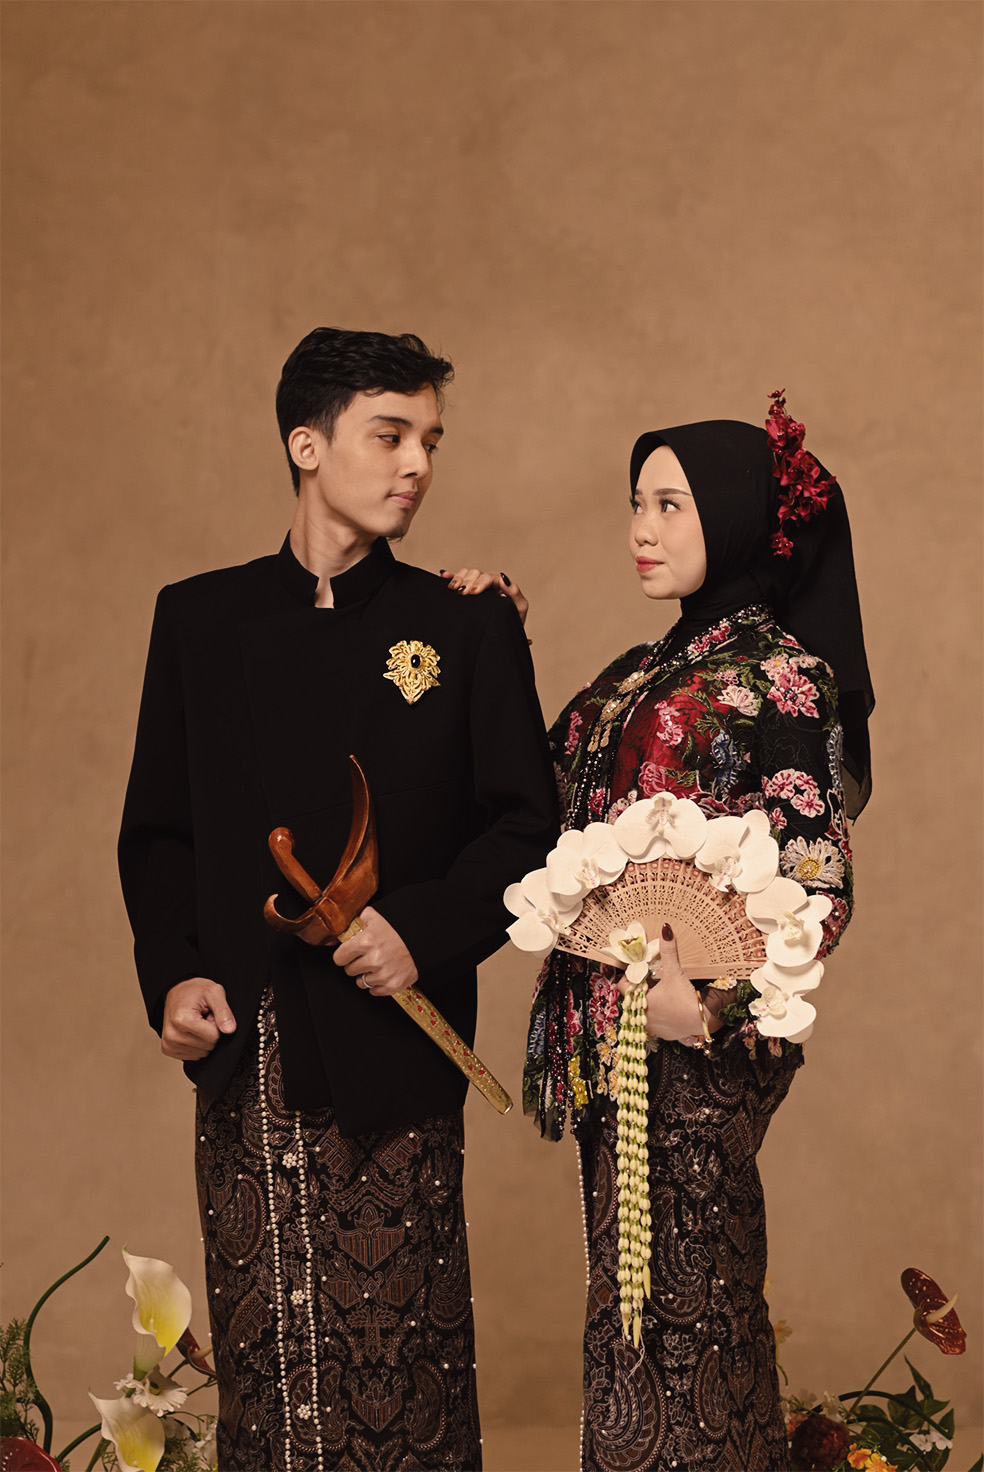
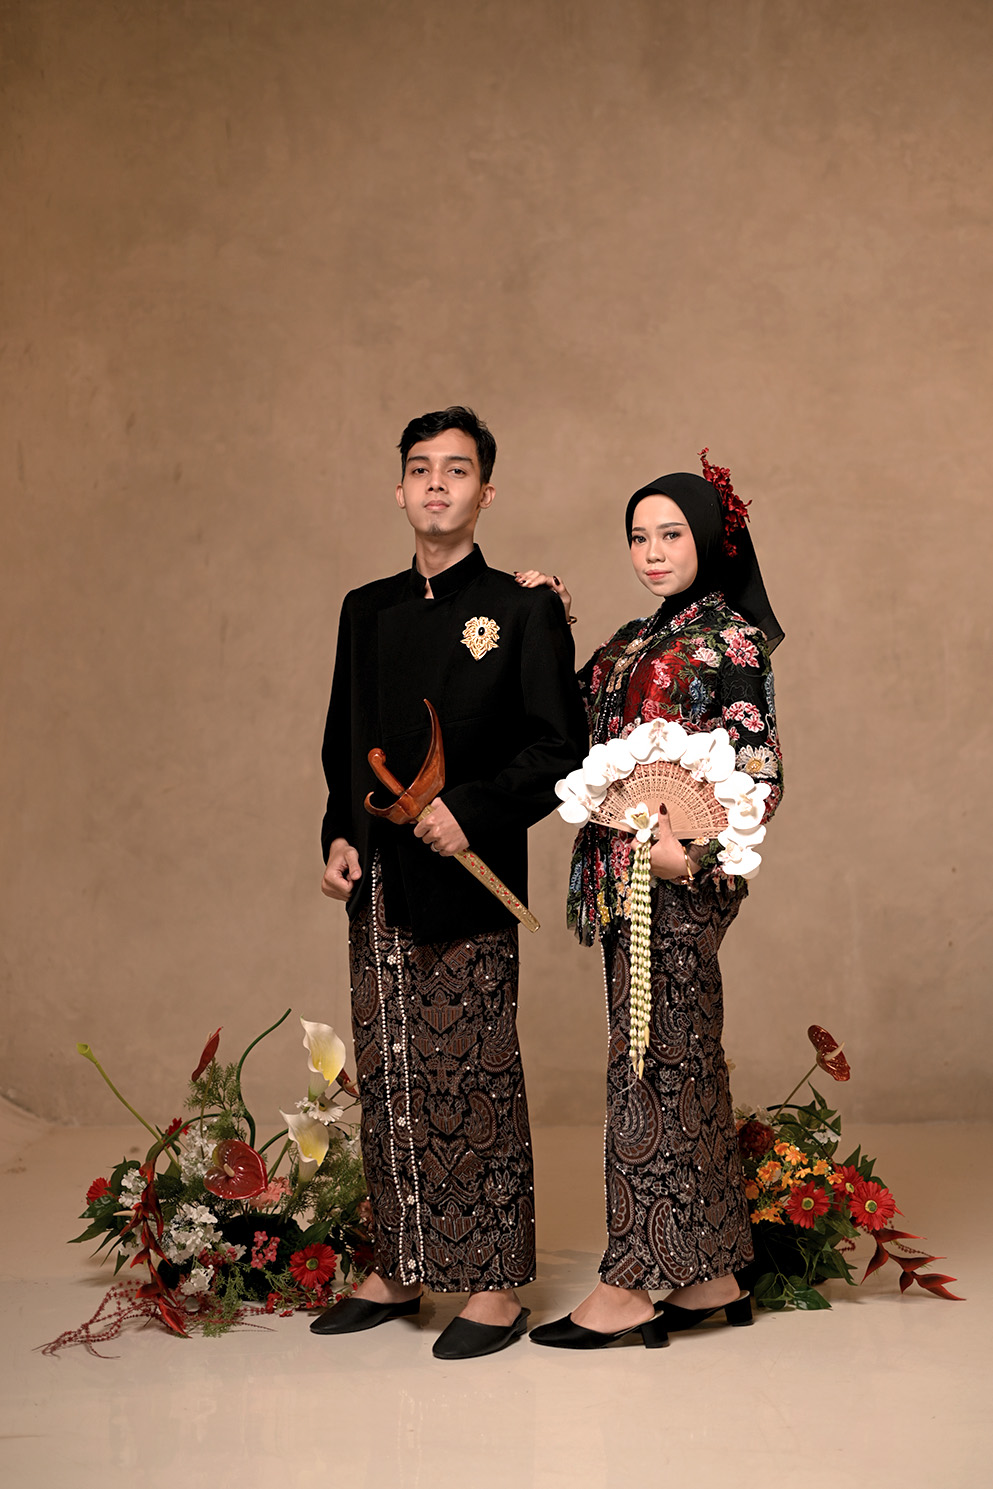
Update Image & Data

diff --git a/data/invitationTemplates.ts b/data/invitationTemplates.ts
@@ -21,7 +21,6 @@ export const INVITATION_TEMPLATES: Template[] = [
     label: "Formal / Orang Tua & VIP",
     content: `Kepada Yth.
 Bapak/Ibu/Saudara/i {nama}
-di Tempat
 
 Assalamu’alaikum Wr. Wb. / Selamat {waktu},
 
@@ -35,7 +34,7 @@ Detail informasi mengenai lokasi dan jadwal acara dapat diakses melalui tautan u
 
 Merupakan suatu kehormatan dan kebahagiaan bagi kami apabila Bapak/Ibu/Saudara/i berkenan hadir.
 
-Mohon maaf atas keterbatasan penyampaian undangan ini. Terima kasih.
+Mohon maaf atas keterbatasan penyampaian undangan ini. Terima kasih atas perhatiannya!
 
 Wassalamu’alaikum Wr. Wb.`,
   },
@@ -46,15 +45,15 @@ Wassalamu’alaikum Wr. Wb.`,
 
 Selamat {waktu}! Semoga sehat bahagia selalu ya.
 
-Hari pernikahan kami akan segera tiba, oleh karenanya kami ingin mengundang untuk datang dan merayakan hari bahagia kami! 🎉
+Hari pernikahan kami sudah semakin dekat. Tanpa mengurangi rasa hormat, kami ingin mengundang untuk hadir dan berbagi kebahagiaan bersama kami di hari istimewa ini. 🎉
 
 💍 *The Wedding of Annisa & Rangga*
-Untuk info detail acara dan lokasinya sebagai berikut,
+Detail acara dan lokasi selengkapnya dapat diakses melalui tautan berikut:
 
 🔗 Link Undangan : 
 *{link}*
 
-Kehadiran dan doa restumu bakal berharga banget buat kami. See you! 🙌`,
+Kehadiran serta doa restu dari {nama} sangat berarti bagi kami. Terima kasih dan sampai jumpa! 🙌`,
   },
   {
     id: "singkat",

diff --git a/components/wedding/WeddingGift.tsx b/components/wedding/WeddingGift.tsx
@@ -36,11 +36,11 @@ const gifts = [
   },
   {
     id: 3,
-    name: "GoPay Account",
+    name: "E-Wallet Account (GoPay)",
     icon: WalletIcon,
     account: "0896 8684 8970",
     owner: "Rangga Tito Prayogo",
-    badge: "GOPAY",
+    badge: "GoPay",
     badgeStyle: "text-emerald-400 bg-emerald-500/10 border-emerald-400/30",
   },
   {
@@ -48,8 +48,9 @@ const gifts = [
     name: "Send Your Gift At :",
     icon: MapPinIcon,
     account:
-      "Jl. Mawar Indah No. 123, RT 02/RW 05, Kel. Kebayoran Baru, Jakarta Selatan 12110",
-    owner: "Rangga & Annisa",
+      "Mutiara Bekasi Jaya Blok D7 No. 8, Sindang Mulya, Cibarusah, Kabupaten Bekasi 17340",
+    owner: "Annisa Lutfia",
+
     badge: "GIFT",
     badgeStyle: "text-yellow-400 bg-yellow-500/10 border-yellow-400/30",
     isAddress: true, // Flag khusus untuk layout teks alamat
@@ -84,7 +85,7 @@ export default function WeddingGift() {
         </motion.div>
 
         <motion.p
-          className="text-center text-xs md:text-sm text-gray-200 max-w-xl mx-auto mb-14 leading-relaxed font-light"
+          className="text-center text-xs md:text-sm text-gray-200 max-w-xl mx-auto mb-14 leading-relaxed text-shadow-lg/30 font-light"
           initial={{ opacity: 0, y: 15 }}
           whileInView={{ opacity: 1, y: 0 }}
           viewport={{ once: true, margin: "-50px" }}

diff --git a/components/wedding/RsvpSection.tsx b/components/wedding/RsvpSection.tsx
@@ -98,7 +98,7 @@ export default function RsvpSection({ guest }: RsvpSectionProps) {
         </motion.div>
 
         <motion.p
-          className="text-center text-xs md:text-sm text-gray-200 max-w-xl mx-auto mb-14 leading-relaxed font-light"
+          className="text-center text-xs md:text-sm text-gray-200 text-shadow-lg/30 max-w-xl mx-auto mb-14 leading-relaxed font-light"
           initial={{ opacity: 0, y: 15 }}
           whileInView={{ opacity: 1, y: 0 }}
           viewport={{ once: true }}

diff --git a/components/wedding/PhotoGallery.tsx b/components/wedding/PhotoGallery.tsx
@@ -47,14 +47,14 @@ const galleryImages = [
     id: 7,
     url: "/images/gallery/img_5_wide.jpg",
     alt: "Prewedding 7",
-    aspect: "aspect-[4/4]",
-  },
-  {
-    id: 8,
-    url: "/images/gallery/img_8.jpg",
-    alt: "Prewedding 8",
     aspect: "aspect-[4/6]",
   },
+  // {
+  //   id: 8,
+  //   url: "/images/gallery/img_8.jpg",
+  //   alt: "Prewedding 8",
+  //   aspect: "aspect-[4/6]",
+  // },
   {
     id: 9,
     url: "/images/gallery/img_9.jpg",
